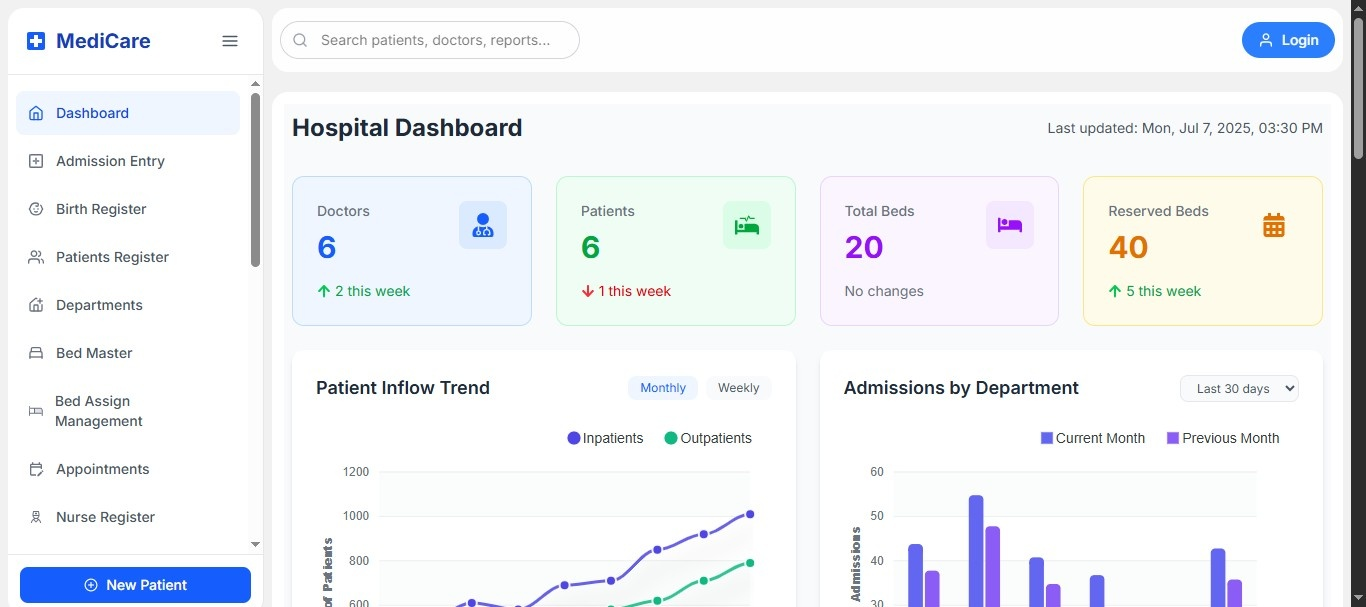
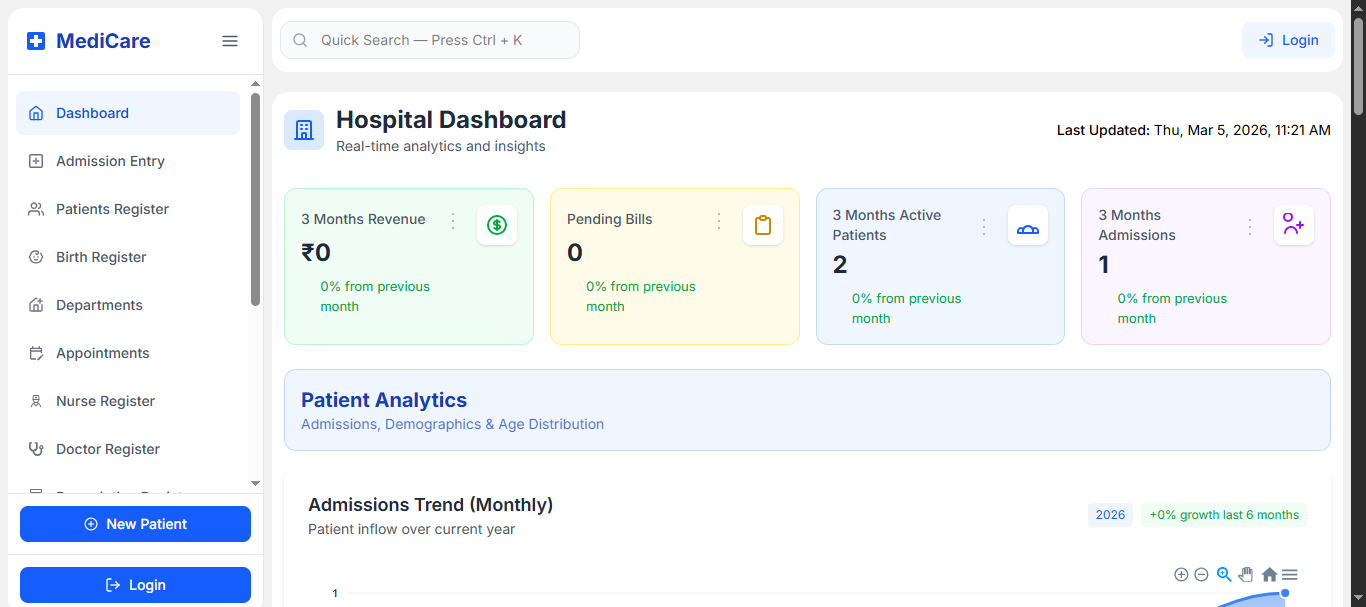
update the project page

diff --git a/src/constants/projectData.ts b/src/constants/projectData.ts
@@ -60,6 +60,24 @@ import projectImg14 from "../assets/images/projectImgs/thinker.png";
 
 export const homeProjectData = [
   {
+    slug: "medi-care",
+    title: "Medi Care",
+    img: projectImg7,
+    description:
+      "Full-stack hospital management platform with RBAC security, high-performance caching, and scalable React data architecture.",
+    techStack: [
+      "Typescript",
+      "React.js",
+      "Express.js",
+      "Node.js",
+      "PostgreSQL",
+      "Prisma",
+      "Supabase",
+      "Redux",
+      "Tailwind CSS",
+    ],
+  },
+  {
     slug: "international-academy-of-design",
     title: "International Academy of Design",
     img: projectImg11,
@@ -140,24 +158,6 @@ export const homeProjectData = [
       "Sass",
       "Cloudinary",
       "Swiper",
-    ],
-  },
-  {
-    slug: "hospital-management",
-    title: "Hospital Management",
-    img: projectImg7,
-    description:
-      "Ongoing hospital management system with TypeScript backend, Prisma ORM, and React Query.",
-    techStack: [
-      "React.js",
-      "Express.js",
-      "Node.js",
-      "PostgreSQL",
-      "Prisma",
-      "Supabase",
-      "Redux",
-      "Tailwind CSS",
-      "Cloudinary",
     ],
   },
 ];
@@ -696,14 +696,16 @@ export const projectData = [
   },
 
   {
-    slug: "hospital-management",
+    slug: "medi-care",
     bannerImage: projectImg7,
-    title: "Hospital Management (Ongoing)",
+    title: "Medi Care",
 
     description: [
-      "A **robust hospital management web application** built using a **modern full-stack architecture**, featuring a **TypeScript-powered backend** with **Express.js**, **Prisma ORM**, and **PostgreSQL** — designed to handle **advanced healthcare data workflows** securely and efficiently.",
-      "The frontend is developed using **React** with **Tailwind CSS**, offering a **clean**, **fully responsive**, and **user-friendly UI**, tailored for administrative staff and healthcare professionals to manage **patients**, **appointments**, **departments**, and **medical records**.",
-      "Utilizes **React Query** for **automatic and optimized data fetching**, enabling real-time updates and reducing manual reloads — resulting in a **smooth, high-performance experience** across all user interactions.",
+      "A **scalable hospital management web application** built using a **modern full-stack architecture** with **TypeScript**, **Express.js**, **Prisma ORM**, and **PostgreSQL**, designed to handle **secure healthcare workflows** and large-scale data operations efficiently.",
+
+      "Implements **secure RBAC-based authentication** with **JWT access/refresh tokens**, enabling administrators to control user provisioning and permissions across roles such as **doctors**, **nurses**, and **staff** within the healthcare system.",
+
+      "Features a **high-performance data layer** with **multi-layer caching**, **cursor-based pagination**, and **optimized database queries**, while the **React + React Query frontend** provides **real-time data synchronization**, responsive UI, and centralized API error handling.",
     ],
 
     techStack: [
@@ -716,33 +718,30 @@ export const projectData = [
       { img: img7, name: "Redux" },
 
       { img: img9, name: "Tailwind Css" },
-      { img: img28, name: "Cloudinary" },
     ],
 
     features: [
-      "**Full-stack hospital management system** designed for clinics and hospitals, built using **React**, **TypeScript**, **Express.js**, **Prisma ORM**, and **PostgreSQL** — engineered for **security, scalability, and clinical efficiency**.",
+      "**Full-stack hospital management platform** built with **React**, **TypeScript**, **Express.js**, **Prisma ORM**, and **PostgreSQL**, designed to manage **patients, admissions, doctors, billing, and hospital operations** securely and efficiently.",
 
-      "**Advanced monorepo architecture** using workspaces and module aliasing, enabling **shared Zod schemas** between the backend (TypeScript) and frontend (JavaScript) for **type-safe form validation and API communication**.",
+      "**Monorepo architecture** with shared **Zod validation schemas**, enabling **cross-layer type safety** between frontend forms and backend APIs while eliminating duplicated validation logic.",
 
-      "**Zod-based schema validation** across all form submissions (patients, appointments, departments) to enforce **strong runtime and compile-time validation**, improving data quality and developer safety.",
+      "**Secure authentication and RBAC system** using **JWT access/refresh tokens**, allowing administrators to provision staff accounts, control permissions, and revoke access dynamically.",
 
-      "**JWT-based authentication system** with **role-based access control (RBAC)** for admins, doctors, and staff — including support for **secure login**, **password update flows**, and **profile management**.",
+      "**High-performance backend data layer** with **multi-layer caching (memory + Redis)**, **cursor-based pagination**, and optimized database queries to support large hospital datasets.",
 
-      "**Global state management with Redux Toolkit**, handling authentication state, user sessions, and shared application state with **modular, scalable reducers**.",
+      "**Advanced search and filtering system** powered by **PostgreSQL indexing and query optimization**, enabling fast lookup across patients, admissions, and healthcare records.",
 
-      "**Real-time data fetching and caching** using **React Query**, enabling **automatic background updates**, **retry mechanisms**, and **no manual refresh** during patient or appointment updates.",
+      "**React Query data architecture** for **automatic caching, background refetching, and mutation handling**, ensuring consistent real-time UI updates without manual refresh.",
 
-      "**Responsive admin dashboard UI** with **Tailwind CSS**, tailored for both desktop and mobile use, allowing healthcare staff to manage **patient data**, **appointment bookings**, **department lists**, and **medical records** seamlessly.",
+      "**Centralized API communication layer** using **Axios interceptors** for consistent error normalization, authentication handling, and reliable API requests.",
 
-      "**Dynamic content tables** built with **TanStack Table (React Table)**, providing advanced features like **column filtering**, **sorting**, **pagination**, and **editable rows** for managing large hospital datasets efficiently.",
+      "**Dynamic hospital data tables** built with **TanStack Table**, supporting **sorting, filtering, and efficient pagination** for managing large datasets.",
 
-      "**Interactive chart visualizations** using **React ApexCharts** to provide **insightful reports** like patient flow, appointment stats, and department activity — helping hospitals make **data-driven decisions**.",
+      "**Form handling and validation system** using **React Hook Form + Zod**, providing strong client-side validation and improved user input reliability.",
 
-      "**Optimized loading and performance techniques** including **lazy loading**, **code-splitting**, and **image optimization**, ensuring smooth UX even on low bandwidth and large datasets.",
+      "**Modular frontend architecture** with reusable hooks, API layers, and feature-based structure to maintain scalability and clean code organization.",
 
-      "**Cross-platform deployment configured** using **Vercel (frontend)** and **Render (backend)** with automatic CI/CD, environment management, and health checks for production-readiness.",
-
-      "**Minimal yet clean UI/UX** to support rapid access and readability, designed around hospital workflows and optimized for **staff productivity and clinical accuracy**.",
+      "**Production deployment setup** using **Vercel (frontend)** and **Render (backend)** with environment configuration and secure API communication.",
     ],
 
     impact: [
@@ -768,29 +767,30 @@ export const projectData = [
     ],
 
     challenges: [
-      "Architecting an **advanced monorepo structure** using Yarn workspaces and module aliasing to enable **shared Zod validation schemas** across frontend and backend — ensuring **type safety**, reduced duplication, and aligned API contracts.",
+      "Designing a **monorepo architecture with shared Zod schemas** across frontend and backend, ensuring **cross-layer type safety** while avoiding duplicated validation logic and maintaining consistent API contracts.",
 
-      "Overcoming deployment hurdles caused by **monorepo limitations on platforms like Render and Vercel**, which required **custom build scripts**, **environment isolation**, and workspace-specific configuration to deploy the backend (Express/Prisma) and frontend (React/Next) separately and reliably.",
+      "Implementing a **secure RBAC authentication system** with **JWT access/refresh tokens**, handling admin-driven user provisioning, permission enforcement, and runtime access revocation across multiple staff roles.",
 
-      "Maintaining **consistent runtime validation** with Zod across both sides of the application — ensuring that **form inputs, database operations, and API requests** were type-safe, synchronized, and easily extendable without breaking validation flow.",
+      "Building a **high-performance data retrieval layer** with **multi-layer caching and cursor-based pagination**, optimizing queries and reducing database load while maintaining data consistency across large hospital datasets.",
+
+      "Managing **complex frontend server-state synchronization** using **React Query**, including cache invalidation, mutation handling, and consistent UI updates across multiple interconnected modules.",
+
+      "Handling **deployment and environment configuration** for a full-stack monorepo application across **Vercel and Render**, ensuring reliable builds, environment isolation, and secure API communication.",
     ],
 
     isFullStack: true,
 
     fullStackCodeLink: [
-      {
-        name: "Frontend Code",
-        codeLink: "https://github.com/riteshgharti333/hospital_management_app",
-      },
-      {
-        name: "Backend Code",
-        codeLink: "https://github.com/riteshgharti333/hospital_management_app",
+       {
+        name: "Project Code",
+        codeLink:
+          "https://github.com/riteshgharti333/hospital_management_app",
       },
     ],
 
     fullStackLiveLink: [
       {
-        name: "Frontend Live Demo",
+        name: "Live Demo",
         liveLink: "https://hospital-management-app-nine.vercel.app",
       },
     ],
